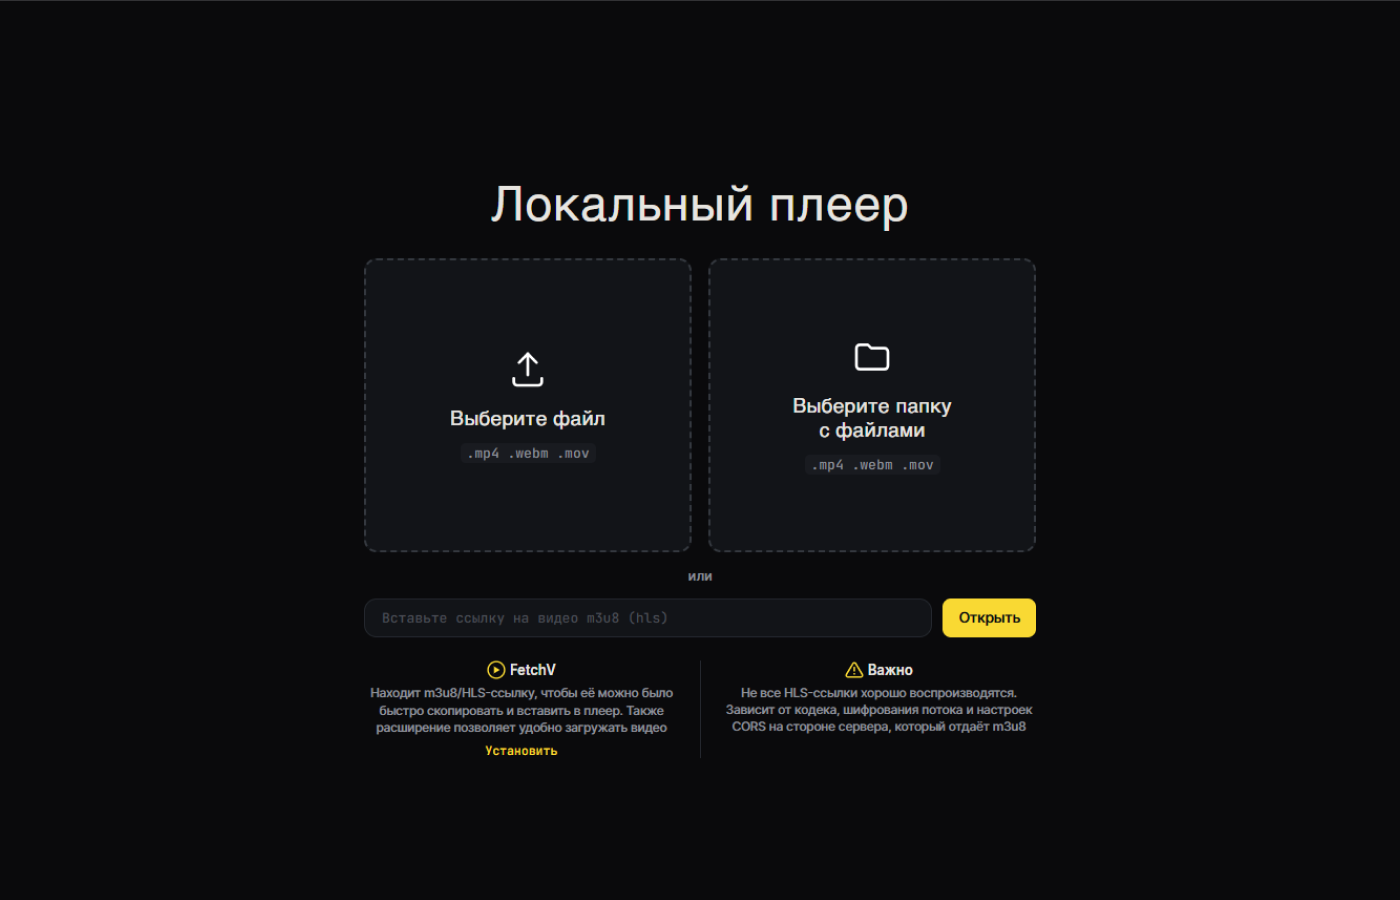
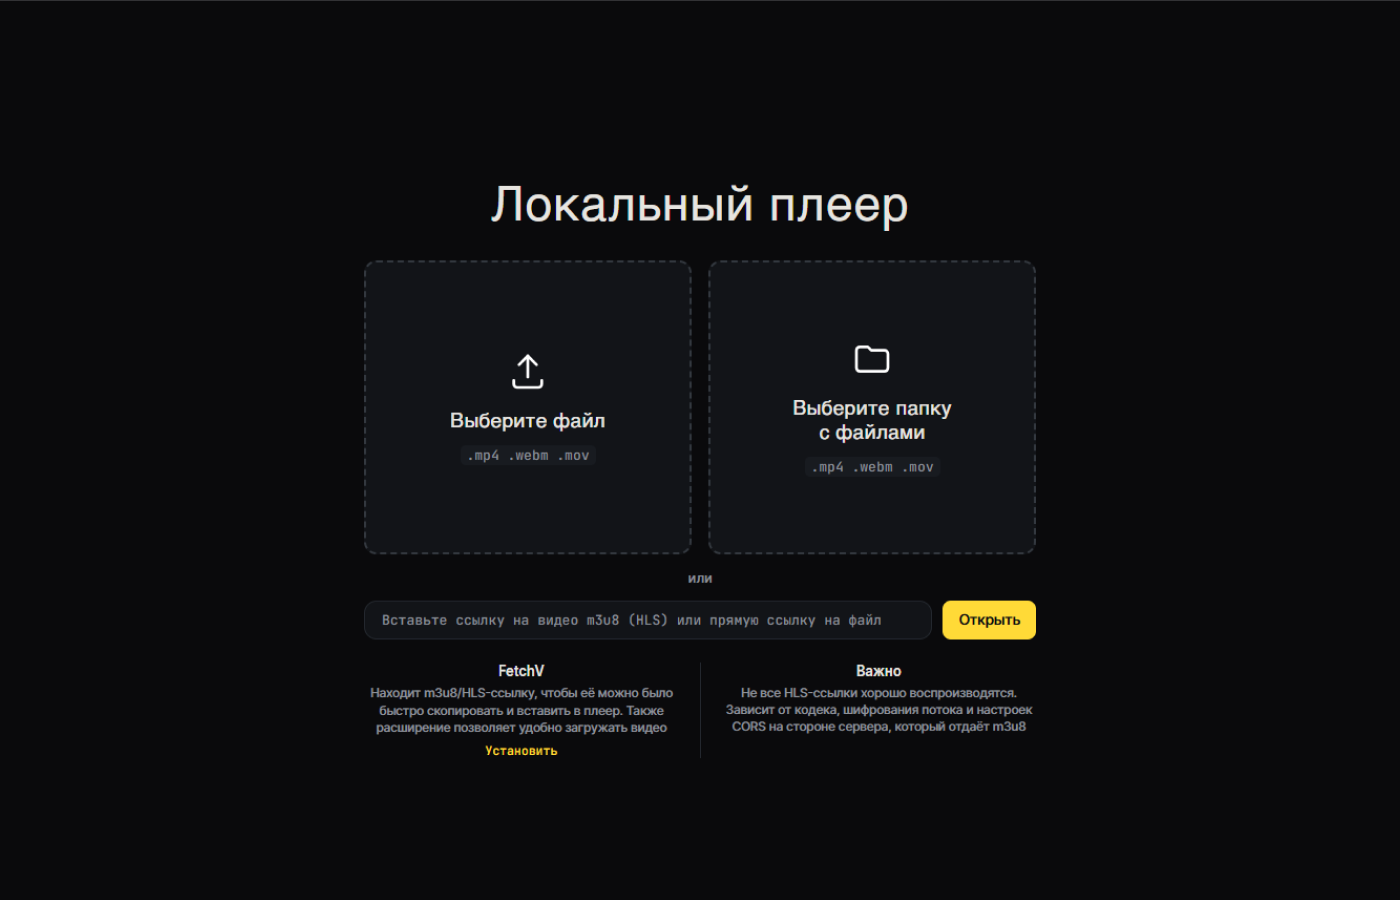
remove unused caption SVGs from screenshots and README

diff --git a/README.md b/README.md
@@ -21,8 +21,6 @@
 
 <p align="center">
   <img src="screenshots/main-screen.png" alt="Главный экран" width="800">
-  <br>
-  <img src="screenshots/caption-main-screen.svg" alt="Главный экран">
 </p>
 
 <br>
@@ -43,24 +41,18 @@
 
 <p align="center">
   <img src="screenshots/player.png" alt="Плеер во время просмотра" width="800">
-  <br>
-  <img src="screenshots/caption-player.svg" alt="Плеер во время просмотра">
 </p>
 
 <br>
 
 <p align="center">
   <img src="screenshots/settings-blur.png" alt="Блюр по таймингу" width="800">
-  <br>
-  <img src="screenshots/caption-settings-blur.svg" alt="Блюр по таймингу">
 </p>
 
 <br>
 
 <p align="center">
   <img src="screenshots/resume-progress.png" alt="Сохранённый прогресс просмотра" width="800">
-  <br>
-  <img src="screenshots/caption-resume-progress.svg" alt="Сохранённый прогресс просмотра">
 </p>
 
 <br>
